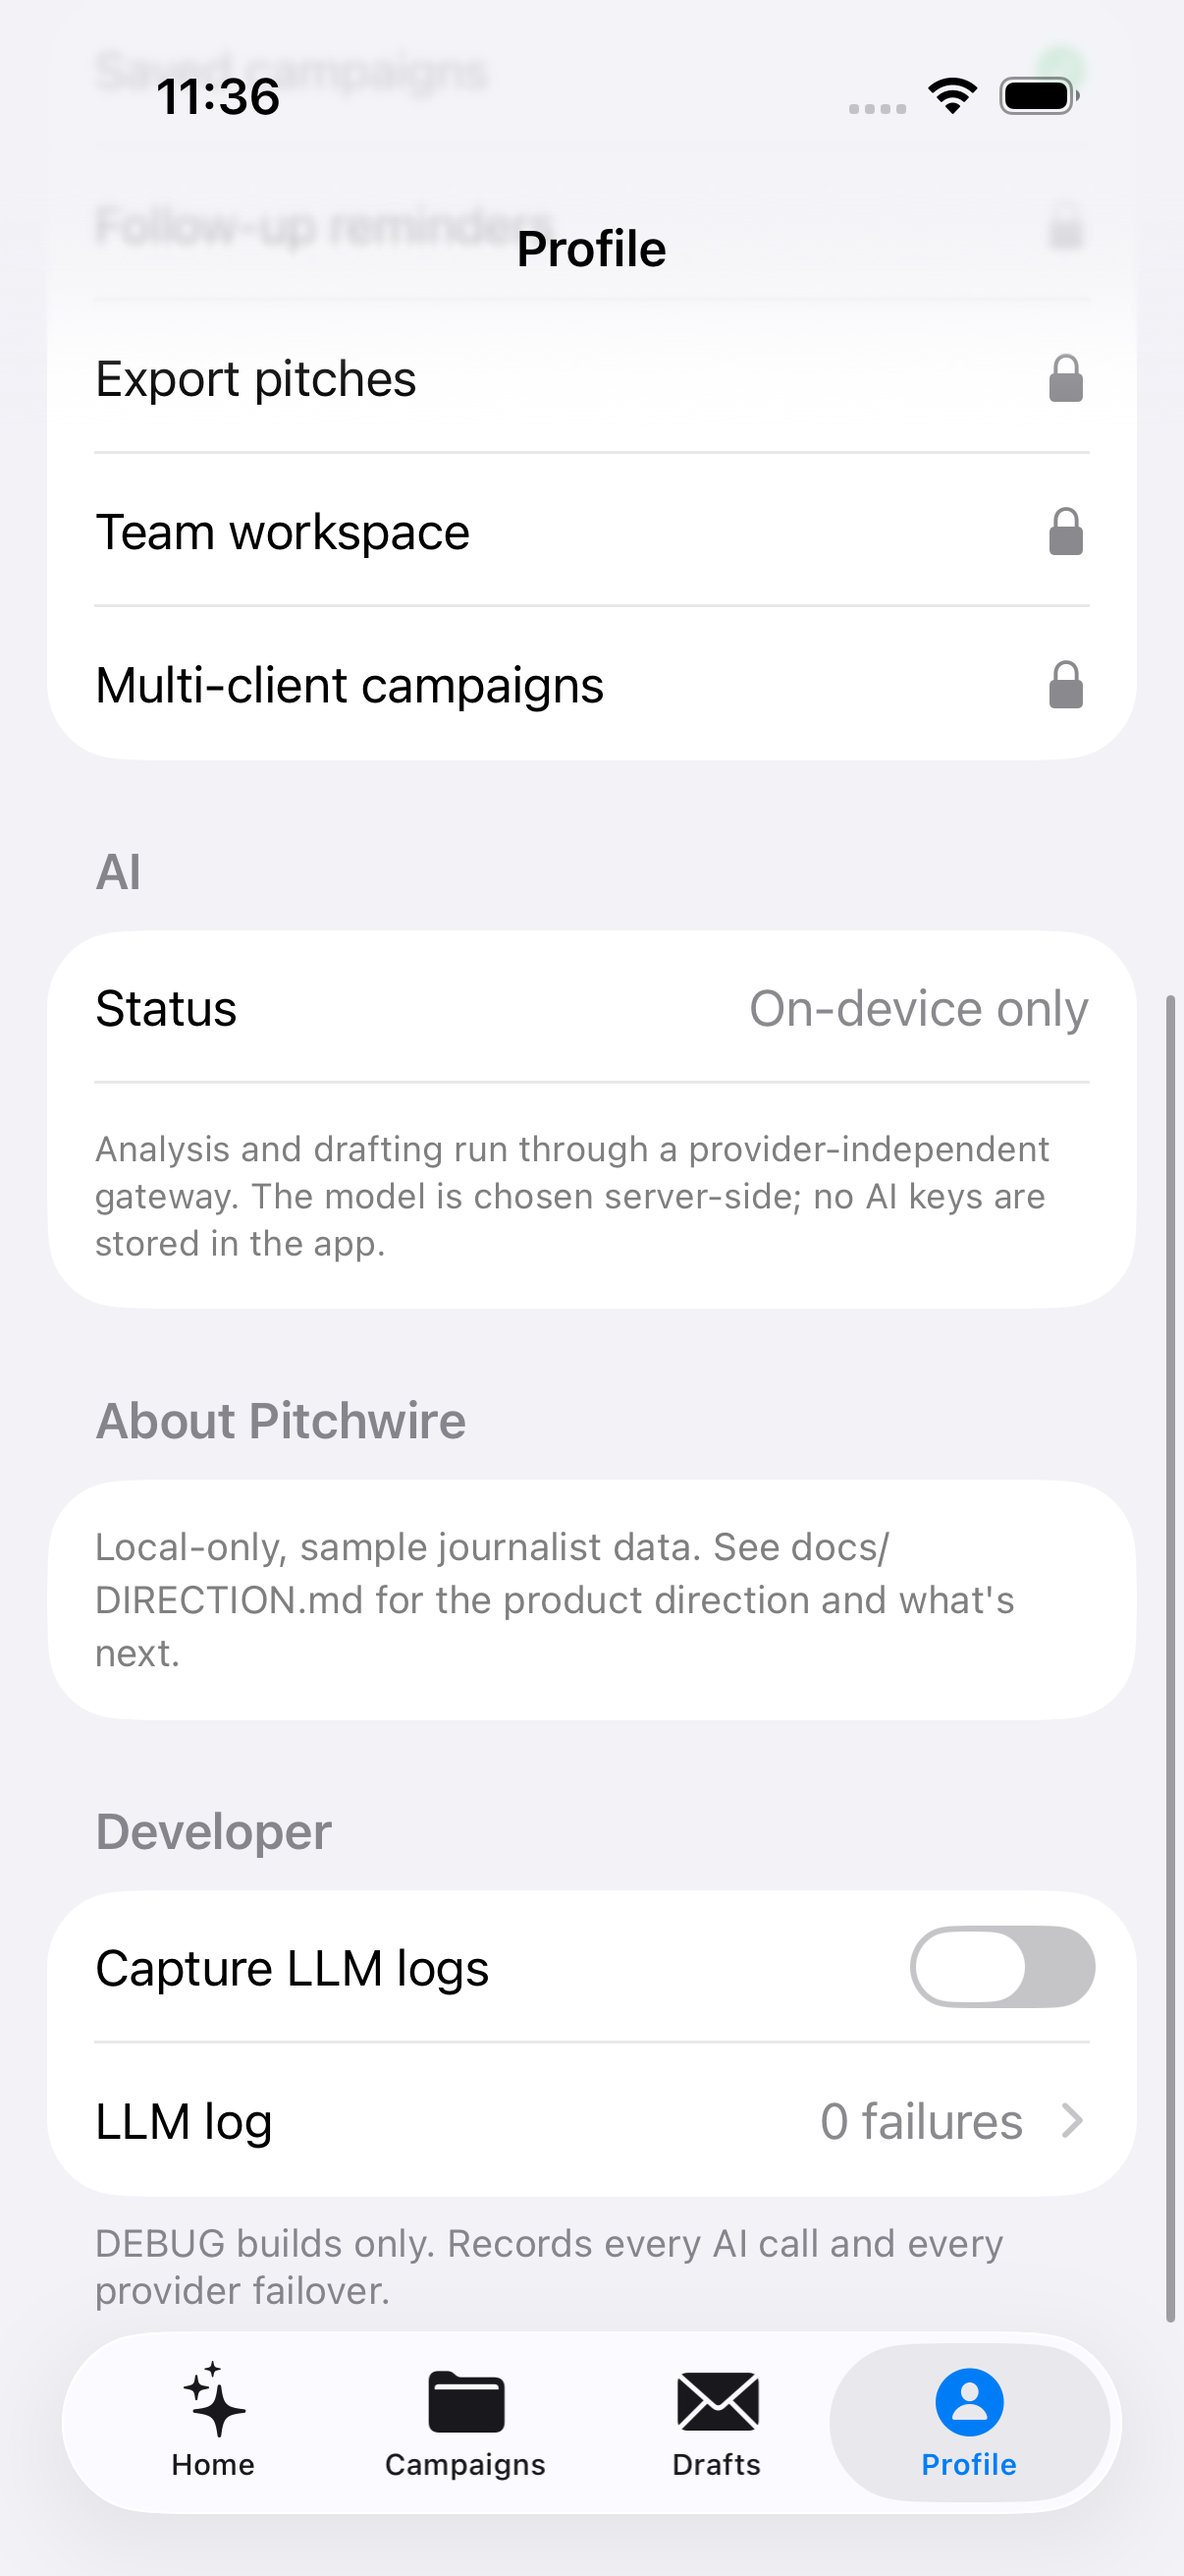
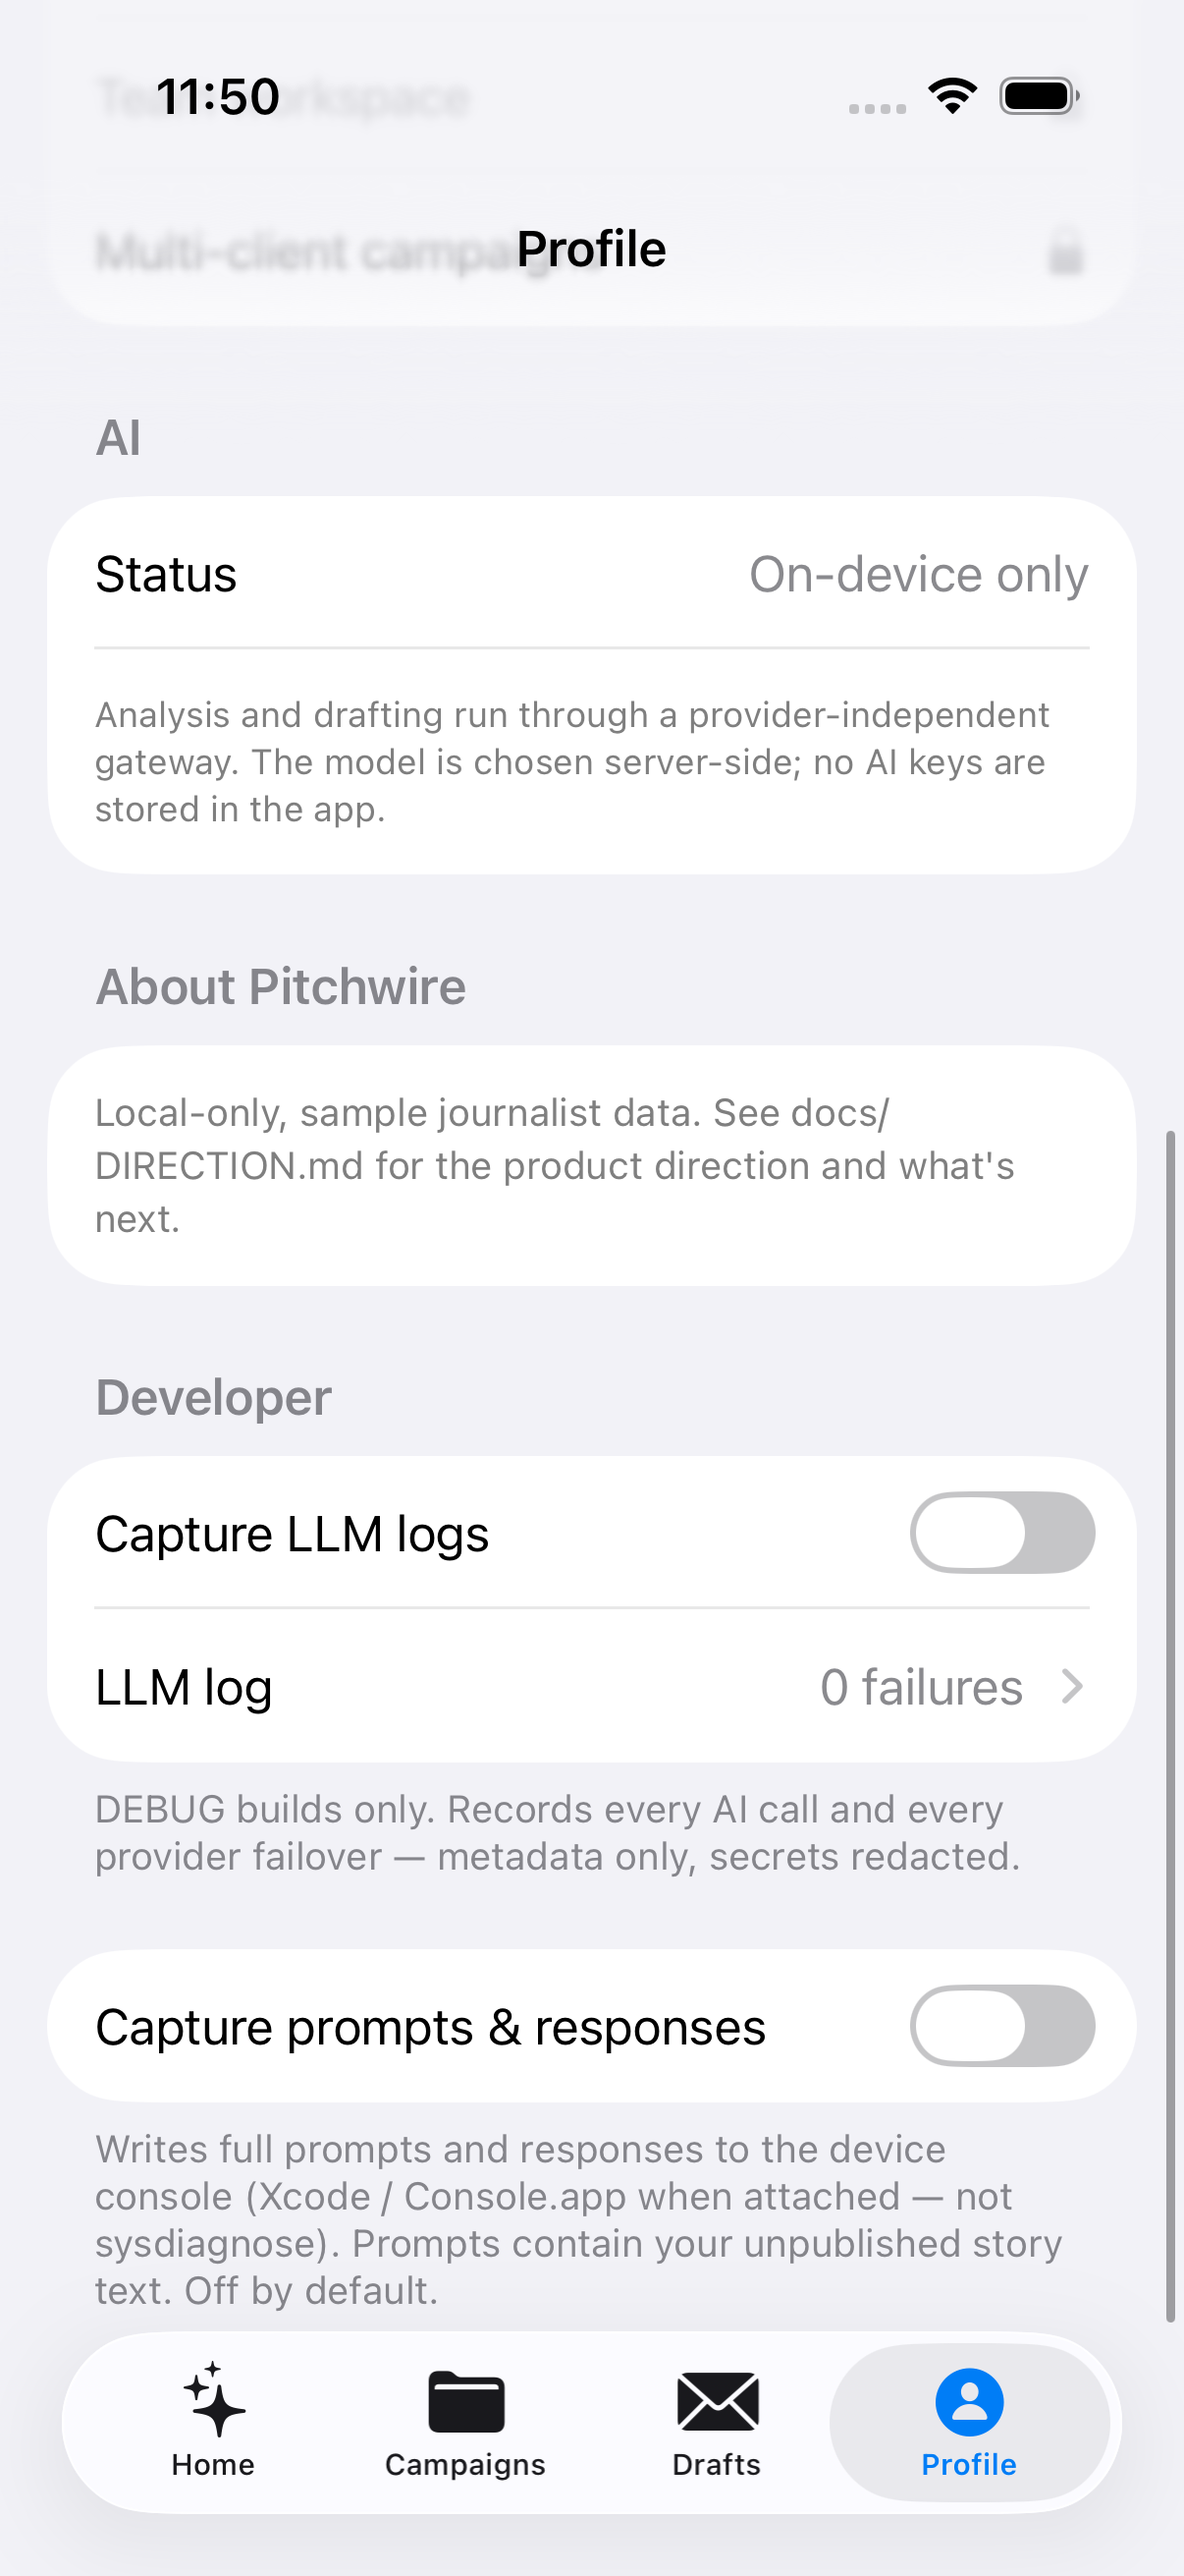
Debug-logging guardrails: DEBUG-gate launch arg, redaction, payload opt-in
1. `-uitest-reset` launch arg is now honoured in DEBUG only (#else -> false).
   Also clears the LLM-log toggles for deterministic tests.
2. Redaction: scrubs bearer tokens, nvapi-/sk- key shapes, api_key=/token=
   pairs, and any registered exact secret (AIClient registers the client
   token on init/configure) — applied in LLMLog.record and LoggingTelemetry.
3. Full prompt/response capture is a SECOND toggle (LLMLog.isCapturingPayloads),
   OFF by default even in DEBUG. When on, PayloadLog writes redacted
   prompts+responses to OSLog with .private fields (Xcode/Console when
   attached, never sysdiagnose, never the in-app viewer). Whole file #if DEBUG.

Verified: Release binary has 0 PayloadLog / DebugLLMLogView / "Capture
prompts" / "uitest-reset" symbols; Redaction stays (runs in release too).
5 new Redaction unit tests. 20 tests green. Release build clean.

Claude-Session: https://claude.ai/code/session_013ymha6n2L9SfifjYS1iGM9

diff --git a/BeatMatch/Sources/AI/AIClient.swift b/BeatMatch/Sources/AI/AIClient.swift
@@ -19,7 +19,7 @@ protocol AITelemetry {
 
 struct LoggingTelemetry: AITelemetry {
     func record(_ event: AIEvent) {
-        let status = event.ok ? "ok" : "ERR(\(event.errorKind ?? "?"))"
+        let status = event.ok ? "ok" : "ERR(\(Redaction.redact(event.errorKind ?? "?")))"
         print("[AI] \(event.task.rawValue) tier=\(event.tier.rawValue) model=\(event.model) \(event.latencyMS)ms cached=\(event.cached) \(status)")
     }
 }
@@ -44,6 +44,7 @@ final class AIClient {
     ) {
         self.configuration = configuration
         self.log = log
+        Redaction.register(configuration.clientToken)
         if let telemetry {
             self.telemetry = telemetry
         } else if let log {
@@ -57,6 +58,7 @@ final class AIClient {
     /// Swap the backend at runtime (e.g. after sign-in issues a client token).
     func configure(_ configuration: AIConfiguration) {
         self.configuration = configuration
+        Redaction.register(configuration.clientToken)
         self.gateway = Self.makeGateway(for: configuration, log: log)
     }
 
@@ -67,12 +69,21 @@ final class AIClient {
         do {
             let response = try await gateway.run(request)
             emit(request, model: response.model, start: start, cached: response.cached, ok: true, error: nil)
+            capturePayload(request, responseText: response.text, error: nil)
             return response
         } catch {
             // The call never reached a model, so there is no model name to report.
             emit(request, model: "—", start: start, cached: false, ok: false, error: error)
+            capturePayload(request, responseText: nil, error: error)
             throw error
         }
+    }
+
+    private func capturePayload(_ request: AIRequest, responseText: String?, error: Error?) {
+        #if DEBUG
+        guard log?.isCapturingPayloads == true else { return }
+        PayloadLog.record(request: request, responseText: responseText, error: error)
+        #endif
     }
 
     /// Convenience: run and return the text, or `nil` if anything went wrong.

diff --git a/BeatMatch/Sources/AI/Redaction.swift b/BeatMatch/Sources/AI/Redaction.swift
@@ -1,0 +1,49 @@
+import Foundation
+
+/// Scrubs secrets out of anything before it reaches a log sink. Applied at every
+/// boundary that writes a log line (`LLMLog.record`, `LoggingTelemetry`,
+/// `PayloadLog`). The app holds no provider keys, but it may hold a scoped
+/// client token, and wrapped transport errors can carry URLs and headers.
+enum Redaction {
+    private static let lock = NSLock()
+    private static var exactSecrets: Set<String> = []
+
+    /// Register a known secret (e.g. the current client token) for exact removal.
+    static func register(_ secret: String?) {
+        guard let secret, secret.count >= 6 else { return }
+        lock.lock(); defer { lock.unlock() }
+        exactSecrets.insert(secret)
+    }
+
+    static func redact(_ text: String) -> String {
+        var out = text
+
+        lock.lock()
+        let secrets = exactSecrets
+        lock.unlock()
+        for secret in secrets {
+            out = out.replacingOccurrences(of: secret, with: "‹redacted›")
+        }
+
+        for pattern in patterns {
+            out = out.replacingOccurrences(
+                of: pattern.regex,
+                with: pattern.replacement,
+                options: .regularExpression
+            )
+        }
+        return out
+    }
+
+    static func redact(_ text: String?) -> String { text.map(redact) ?? "nil" }
+
+    private struct Pattern { let regex: String; let replacement: String }
+
+    private static let patterns: [Pattern] = [
+        Pattern(regex: #"(?i)bearer\s+[A-Za-z0-9._\-]{6,}"#, replacement: "Bearer ‹redacted›"),
+        Pattern(regex: #"nvapi-[A-Za-z0-9._\-]{6,}"#,          replacement: "nvapi-‹redacted›"),
+        Pattern(regex: #"sk-[A-Za-z0-9._\-]{6,}"#,             replacement: "sk-‹redacted›"),
+        Pattern(regex: #"(?i)(api[_\-]?key|token|secret|authorization)\s*[:=]\s*["']?[A-Za-z0-9._\-]{8,}"#,
+                replacement: "$1=‹redacted›")
+    ]
+}

diff --git a/BeatMatch/UnitTests/RedactionTests.swift b/BeatMatch/UnitTests/RedactionTests.swift
@@ -1,0 +1,40 @@
+import XCTest
+@testable import Pitchwire
+
+final class RedactionTests: XCTestCase {
+
+    func testRedactsBearerTokens() {
+        let input = "AIGatewayError.server: GET /v1/generate Authorization: Bearer sk_live_abcDEF123456gh... 401"
+        let out = Redaction.redact(input)
+        XCTAssertFalse(out.contains("abcDEF123456"))
+        XCTAssertTrue(out.contains("Bearer ‹redacted›"))
+    }
+
+    func testRedactsProviderKeyShapes() {
+        XCTAssertFalse(Redaction.redact("key=nvapi-0123456789abcdef").contains("0123456789abcdef"))
+        XCTAssertFalse(Redaction.redact("using sk-proj-ABCDEFGHIJKLMNOP now").contains("ABCDEFGHIJKLMNOP"))
+        XCTAssertFalse(Redaction.redact("api_key: ZAI_0123456789ABCDEF").contains("0123456789ABCDEF"))
+    }
+
+    func testRedactsRegisteredExactSecret() {
+        Redaction.register("tok_this_is_the_client_token_9f2a")
+        let out = Redaction.redact("transport error for tok_this_is_the_client_token_9f2a on retry")
+        XCTAssertFalse(out.contains("tok_this_is_the_client_token_9f2a"))
+        XCTAssertTrue(out.contains("‹redacted›"))
+    }
+
+    func testLeavesOrdinaryTextAlone() {
+        let input = "storyAnalysis tier=fast 812ms cached=false ok"
+        XCTAssertEqual(Redaction.redact(input), input)
+    }
+
+    func testLLMLogRedactsEntryDetail() {
+        let log = LLMLog(defaults: UserDefaults(suiteName: "t.\(UUID())")!)
+        log.isCapturing = true
+        log.record(.init(task: "pitchDraft", tier: "quality", provider: "glm",
+                         latencyMS: 10, cached: false, outcome: .failed,
+                         detail: "401 Authorization: Bearer secret_KEY_value_123456"))
+        XCTAssertEqual(log.entries.count, 1)
+        XCTAssertFalse(log.entries[0].detail!.contains("secret_KEY_value_123456"))
+    }
+}

diff --git a/BeatMatch/Sources/AI/LLMLog.swift b/BeatMatch/Sources/AI/LLMLog.swift
@@ -32,9 +32,17 @@ final class LLMLog {
     private let capacity: Int
     private let defaults: UserDefaults
     private let captureKey = "llmlog.capture"
+    private let payloadKey = "llmlog.capture.payloads"
 
+    /// Metadata capture — task, tier, provider, latency, outcome. No payloads.
     var isCapturing: Bool {
         didSet { defaults.set(isCapturing, forKey: captureKey) }
+    }
+
+    /// Full prompt + response capture to the on-device unified log (`PayloadLog`).
+    /// OFF by default even in DEBUG — prompts carry the user's unpublished story.
+    var isCapturingPayloads: Bool {
+        didSet { defaults.set(isCapturingPayloads, forKey: payloadKey) }
     }
 
     init(capacity: Int = 300, defaults: UserDefaults = .standard) {
@@ -42,13 +50,17 @@ final class LLMLog {
         self.defaults = defaults
         #if DEBUG
         self.isCapturing = defaults.object(forKey: captureKey) as? Bool ?? true
+        self.isCapturingPayloads = defaults.object(forKey: payloadKey) as? Bool ?? false
         #else
         self.isCapturing = false
+        self.isCapturingPayloads = false
         #endif
     }
 
     func record(_ entry: LLMLogEntry) {
         guard isCapturing else { return }
+        var entry = entry
+        entry.detail = entry.detail.map(Redaction.redact)   // never store a secret
         entries.append(entry)
         if entries.count > capacity { entries.removeFirst(entries.count - capacity) }
     }

diff --git a/BeatMatch/Sources/AI/PayloadLog.swift b/BeatMatch/Sources/AI/PayloadLog.swift
@@ -1,0 +1,31 @@
+import Foundation
+import OSLog
+
+#if DEBUG
+/// Writes full LLM prompts and responses to the unified log — **on the device
+/// only** (`.private` fields; visible in Xcode's console when attached, hidden
+/// from sysdiagnose / remote collection).
+///
+/// This is separate from `LLMLog` on purpose: prompts contain the user's
+/// *unpublished* story text. It is gated behind its own toggle
+/// (`LLMLog.isCapturingPayloads`) which is **OFF by default even in DEBUG**, and
+/// this whole file is compiled out of release.
+enum PayloadLog {
+    private static let logger = Logger(subsystem: "com.avaresearch.pitchwire", category: "llm-payload")
+
+    static func record(request: AIRequest, responseText: String?, error: Error?) {
+        let prompt = Redaction.redact(request.prompt)
+        let facts = Redaction.redact(request.input.map { "\($0.key)=\($0.value)" }.joined(separator: " | "))
+        let response = Redaction.redact(responseText)
+        let err = error.map { Redaction.redact("\($0)") } ?? "-"
+
+        logger.debug("""
+        task=\(request.task.rawValue, privacy: .public) tier=\(request.tier.rawValue, privacy: .public)
+        prompt=\(prompt, privacy: .private)
+        facts=\(facts, privacy: .private)
+        response=\(response, privacy: .private)
+        error=\(err, privacy: .public)
+        """)
+    }
+}
+#endif

diff --git a/BeatMatch/Sources/Views/ProfileView.swift b/BeatMatch/Sources/Views/ProfileView.swift
@@ -63,7 +63,16 @@ struct ProfileView: View {
                 } header: {
                     Text("Developer")
                 } footer: {
-                    Text("DEBUG builds only. Records every AI call and every provider failover.")
+                    Text("DEBUG builds only. Records every AI call and every provider failover — metadata only, secrets redacted.")
+                }
+
+                Section {
+                    Toggle("Capture prompts & responses", isOn: Binding(
+                        get: { llmLog.isCapturingPayloads },
+                        set: { llmLog.isCapturingPayloads = $0 }
+                    ))
+                } footer: {
+                    Text("Writes full prompts and responses to the device console (Xcode / Console.app when attached — not sysdiagnose). Prompts contain your unpublished story text. Off by default.")
                 }
                 #endif
             }

diff --git a/BeatMatch/Sources/BeatMatchApp.swift b/BeatMatch/Sources/BeatMatchApp.swift
@@ -10,9 +10,18 @@ struct BeatMatchApp: App {
     let sharedModelContainer: ModelContainer
 
     init() {
+        #if DEBUG
         let resetForTests = ProcessInfo.processInfo.arguments.contains("-uitest-reset")
+        #else
+        let resetForTests = false   // launch args are honoured in DEBUG only
+        #endif
 
         // Developer LLM log — DEBUG-only viewer, capture toggle in Settings.
+        if resetForTests {
+            for key in ["llmlog.capture", "llmlog.capture.payloads"] {
+                UserDefaults.standard.removeObject(forKey: key)
+            }
+        }
         let log = LLMLog()
         llmLog = log
 

diff --git a/BeatMatch/UITests/DebugLogUITests.swift b/BeatMatch/UITests/DebugLogUITests.swift
@@ -19,6 +19,8 @@ final class DebugLogUITests: XCTestCase {
         }
         XCTAssertTrue(logLink.exists, "Developer / LLM log row should be in Profile (DEBUG)")
         XCTAssertTrue(app.switches["Capture LLM logs"].exists)
+        XCTAssertTrue(app.switches["Capture prompts & responses"].exists)
+        XCTAssertEqual(app.switches["Capture prompts & responses"].value as? String, "0", "payload capture defaults off")
         XCTAssertFalse(app.staticTexts["Default model"].exists, "no model name in user-facing UI")
         XCTAssertTrue(app.staticTexts["Status"].exists)
 

diff --git a/docs/DIRECTION.md b/docs/DIRECTION.md
@@ -60,6 +60,15 @@ Implemented in `Sources/AI/`:
   **LLM log** (`LLMLog` + a viewer in Profile → Developer, compiled out of release) captures every
   call and every provider failover, with a capture toggle. Expected offline `notConfigured` states
   are filtered out.
+- **Debug-logging guardrails:**
+  - `-uitest-reset` launch arg is honoured in **DEBUG only** (`#else` → `false` in release).
+  - `Redaction` scrubs bearer tokens, `nvapi-`/`sk-` key shapes, `api_key=`/`token=` pairs, and any
+    registered exact secret (the client token registers itself on `AIClient.configure`) at every
+    log boundary — `LLMLog.record` redacts entry detail, `LoggingTelemetry` redacts before print.
+  - **Prompt/response payload capture is a second toggle, OFF by default even in DEBUG**
+    (`LLMLog.isCapturingPayloads`). When on, `PayloadLog` writes redacted prompts + responses to
+    `OSLog` with `.private` fields — visible in Xcode/Console when attached, never in sysdiagnose,
+    never in the in-app viewer (prompts carry the user's unpublished story).
 - **Cost control.** `AIResponse` carries `cached` + `usage`; the gateway contract lets the backend
   do retrieval-before-generation and return summaries. Fast tier for extraction, quality for prose.
 - **Defer:** multi-model routing policy, self-hosting (GLM is MIT/open-weight — a *future* option,

diff --git a/START_HERE.md b/START_HERE.md
@@ -100,7 +100,9 @@ Built against the product direction (story-first workflow) + the AI Infrastructu
   `FallbackGateway` is the failover chain (GLM-4.7 → GLM-4.5 → NVIDIA NIM, all free), which runs
   **in the backend** — the app makes one call and never sees the failover. `OpenAICompatibleGateway`
   is the shared z.ai/NVIDIA client (backend/keyed-dev only). DEBUG build: Profile → Developer has an
-  **LLM log** (every call + failover) with a capture toggle.
+  **LLM log** (every call + failover) with a capture toggle. Guardrails: `-uitest-reset` is
+  DEBUG-only; `Redaction` scrubs secrets at every log boundary; a second toggle sends full
+  prompts/responses to `OSLog` (device-only, `.private`) and is **off by default even in DEBUG**.
 - **Entitlements** (`Sources/Entitlements/`) — features ask `Entitlements.can/remaining/consume`,
   never `if plan == .free`. All limits/features/trials live in `LocalEntitlementStore.catalog`
   (one place). Swappable `EntitlementStore` protocol for a StoreKit/server-backed store later.
